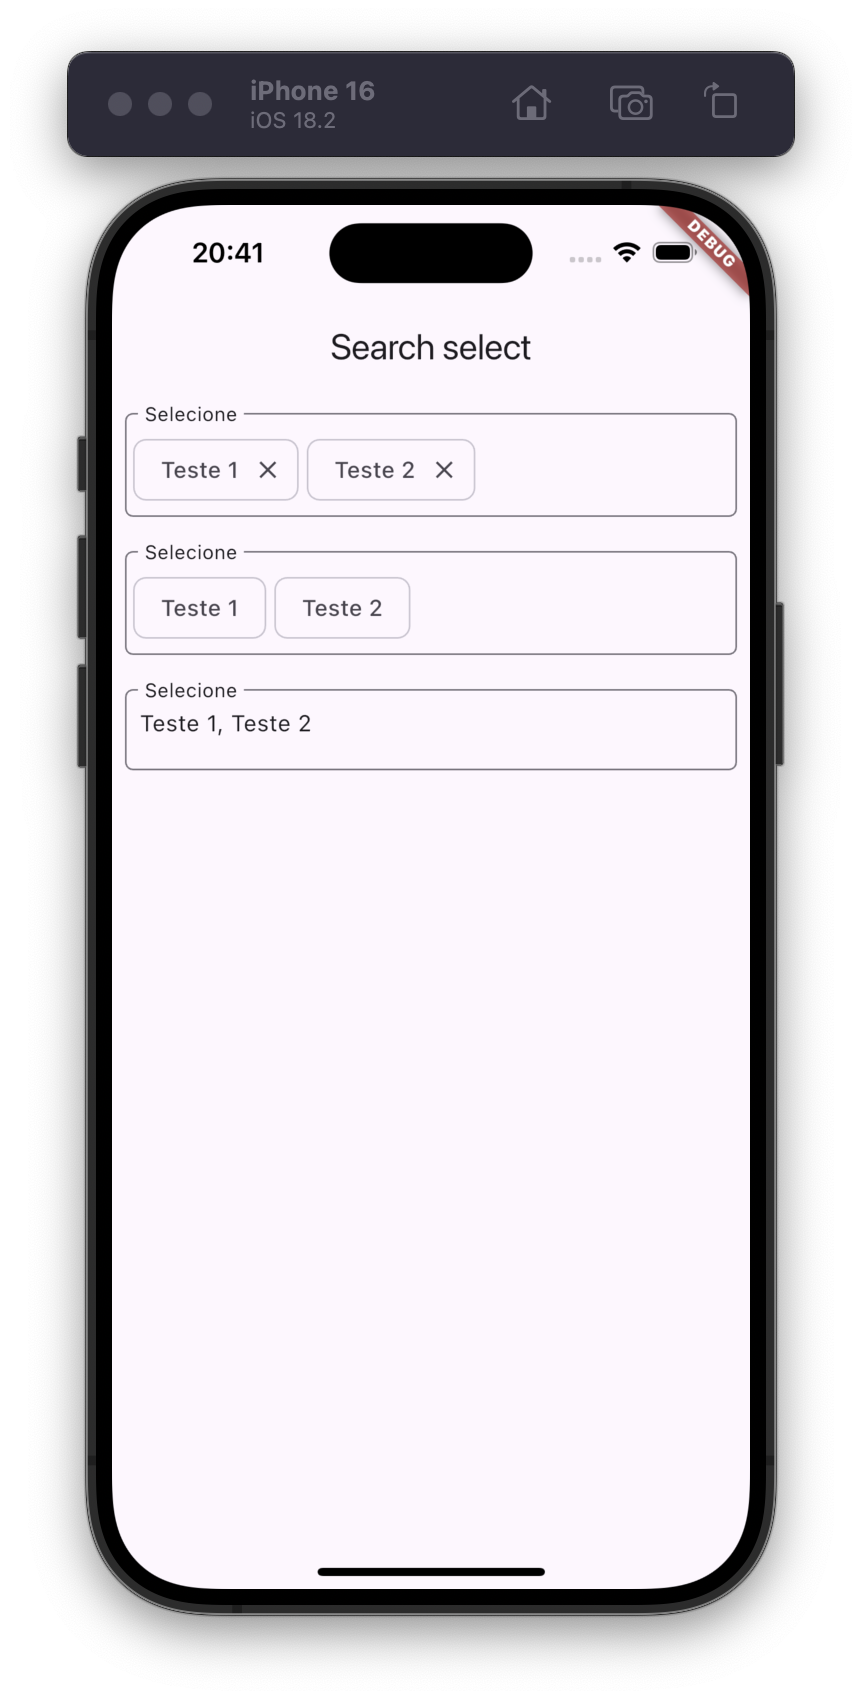
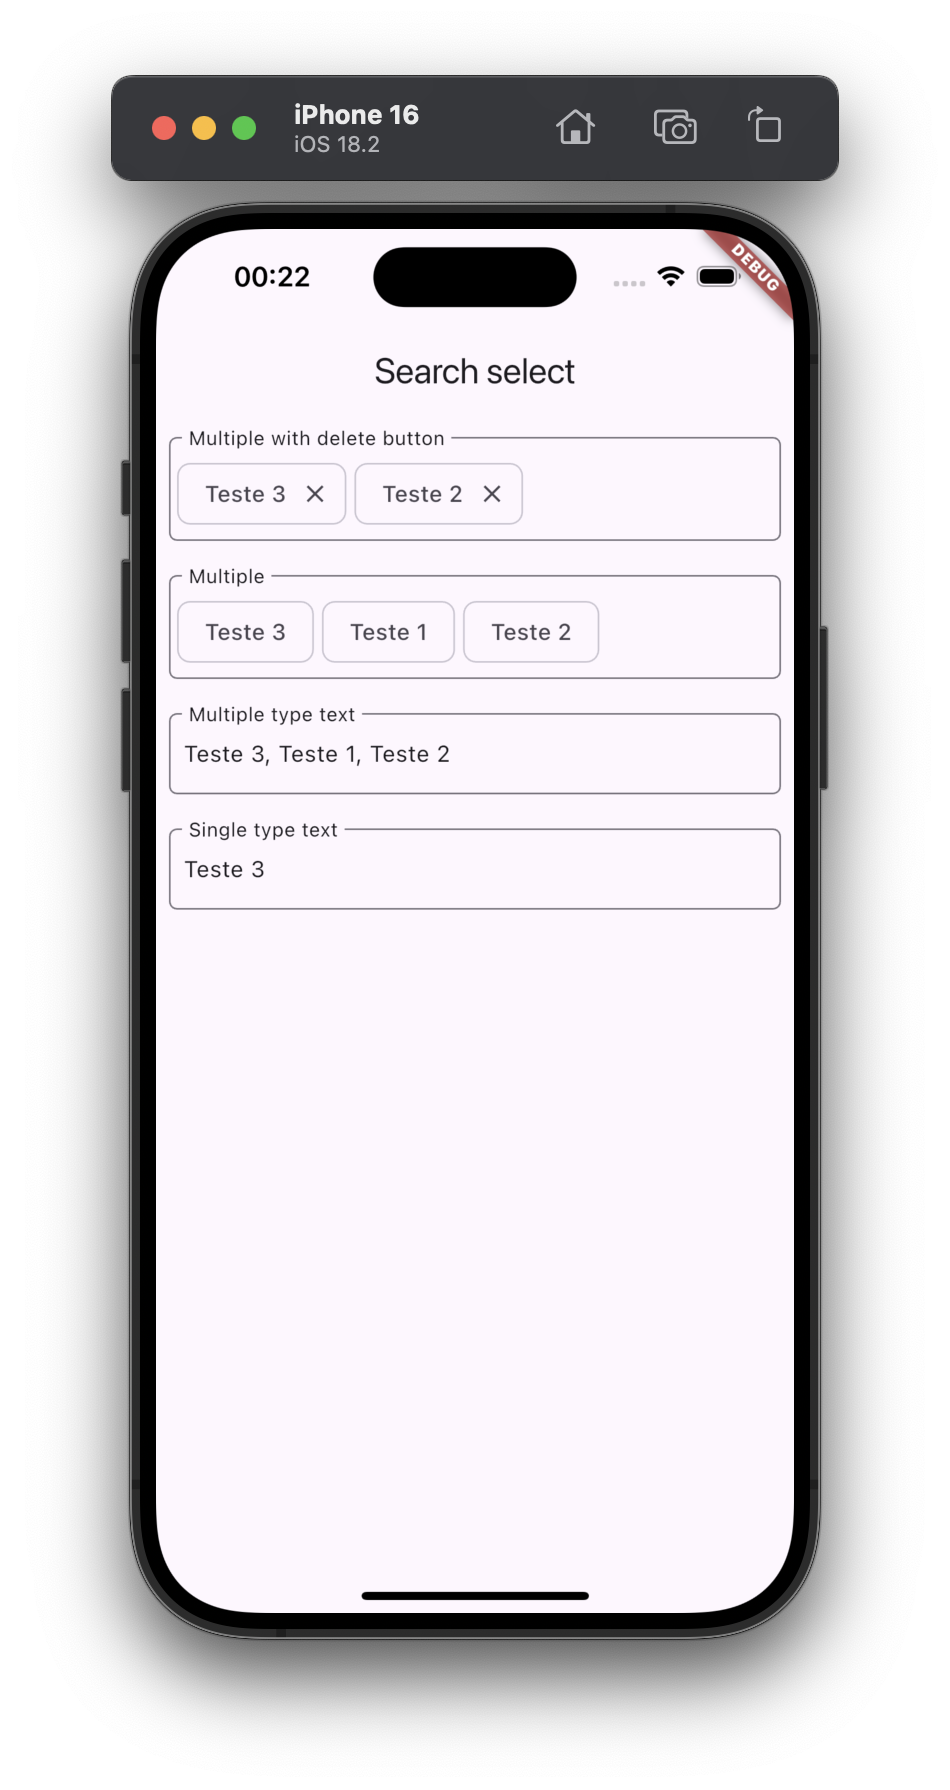
bump version to 1.0.2, update changelog, and add maxBuildItemsIList feature to SearchSelect widget

Changed region(s): [[0.0603, 0.0311, 0.935, 0.9653]]

diff --git a/lib/widgets/search_select.dart b/lib/widgets/search_select.dart
@@ -75,6 +75,11 @@ class SearchSelect<T> extends StatefulWidget {
   /// Callback function to be called when `maxSelections` is reached.
   final void Function()? onClickWhenFullItemsSelected;
 
+  /// use this to limit the number of items to be displayed
+  /// in the list if the list is too long,
+  /// it will be cut off. Use null to display all items
+  final int? maxBuildItemsIList;
+
   const SearchSelect({
     super.key,
     required this.items,
@@ -94,6 +99,7 @@ class SearchSelect<T> extends StatefulWidget {
     this.containerMinHeight = 50,
     this.maxSelections,
     this.onClickWhenFullItemsSelected,
+    this.maxBuildItemsIList,
     this.itemsStyleType = ItemsStyleType.chip,
   });
 
@@ -131,9 +137,14 @@ class _SearchSelectState<T> extends State<SearchSelect<T>> {
 
   List<T> get filteredItems {
     final search = searchController.text.toLowerCase();
-    return widget.items
+    final res = widget.items
         .where((element) => element.toString().toLowerCase().contains(search))
         .toList();
+    if (widget.maxBuildItemsIList == null) return res;
+    final isCutOff = res.length > widget.maxBuildItemsIList!;
+
+    if (!isCutOff) return res;
+    return res.sublist(0, widget.maxBuildItemsIList!);
   }
 
   void tapItem(T item) {
@@ -141,16 +152,16 @@ class _SearchSelectState<T> extends State<SearchSelect<T>> {
       return widget.onClickWhenFullItemsSelected?.call();
     }
 
-    if (!widget.allowMultiple) selecteds.clear();
+    if (!widget.allowMultiple) {
+      menuController.close();
+      selecteds.clear();
+    }
 
     final isSelected = selecteds.contains(item);
     if (isSelected) selecteds.remove(item);
     if (!isSelected) selecteds.add(item);
 
-    if (widget.maxSelections != null &&
-        widget.maxSelections == selecteds.length) {
-      menuController.close();
-    }
+    if (widget.maxSelections == selecteds.length) menuController.close();
 
     setState(() {});
   }
@@ -194,12 +205,14 @@ class _SearchSelectState<T> extends State<SearchSelect<T>> {
                         else if (!widget.allowMultiple)
                           ListTile(
                             title: Text(item.toString()),
+                            selected: checked,
                             onTap: () => tapItem(item),
                           )
                         else
                           ListTile(
                             title: Text(item.toString()),
                             onTap: () => tapItem(item),
+                            selected: checked,
                             leading: checked
                                 ? Icon(Icons.check_box)
                                 : Icon(Icons.check_box_outline_blank),
@@ -281,7 +294,7 @@ class _SearchSelectState<T> extends State<SearchSelect<T>> {
               AnimatedPositioned(
                 duration: Duration(milliseconds: 100),
                 top: selecteds.isEmpty
-                    ? (widget.containerMinHeight / 2) - 4
+                    ? (widget.containerMinHeight / 2) - 6
                     : -3,
                 child: Padding(
                   padding: const EdgeInsets.only(left: 8),

diff --git a/README.md b/README.md
@@ -82,11 +82,17 @@ SearchSelect<String>(
   - `onClickWhenFullItemsSelected`
   <br>A callback function to be called when `maxSelections` is reached.
 
-
+  - `maxBuildItemsIList` <br>
+  use this to limit the number of items to be displayed in the list if the list is too long, it will be cut off. Use null to display all items
 
 
 <br>
 <br>
+
+<p align="center">
+  <img src="https://github.com/welitonsousa.png" width="60" height="60" style="border-radius: 50%;"/>
+</p>
+
 <p align="center">
    Feito com ❤ by <a target="_blank" href="https://welitonsousa.shop"><b>Weliton Sousa</b></a>
 </p>

diff --git a/CHANGELOG.md b/CHANGELOG.md
@@ -1,7 +1,3 @@
-## 1.0.0
+## 1.0.2
 
 * TODO: First Release
-
-## 1.0.1
-
-* TODO: First Release 2 
